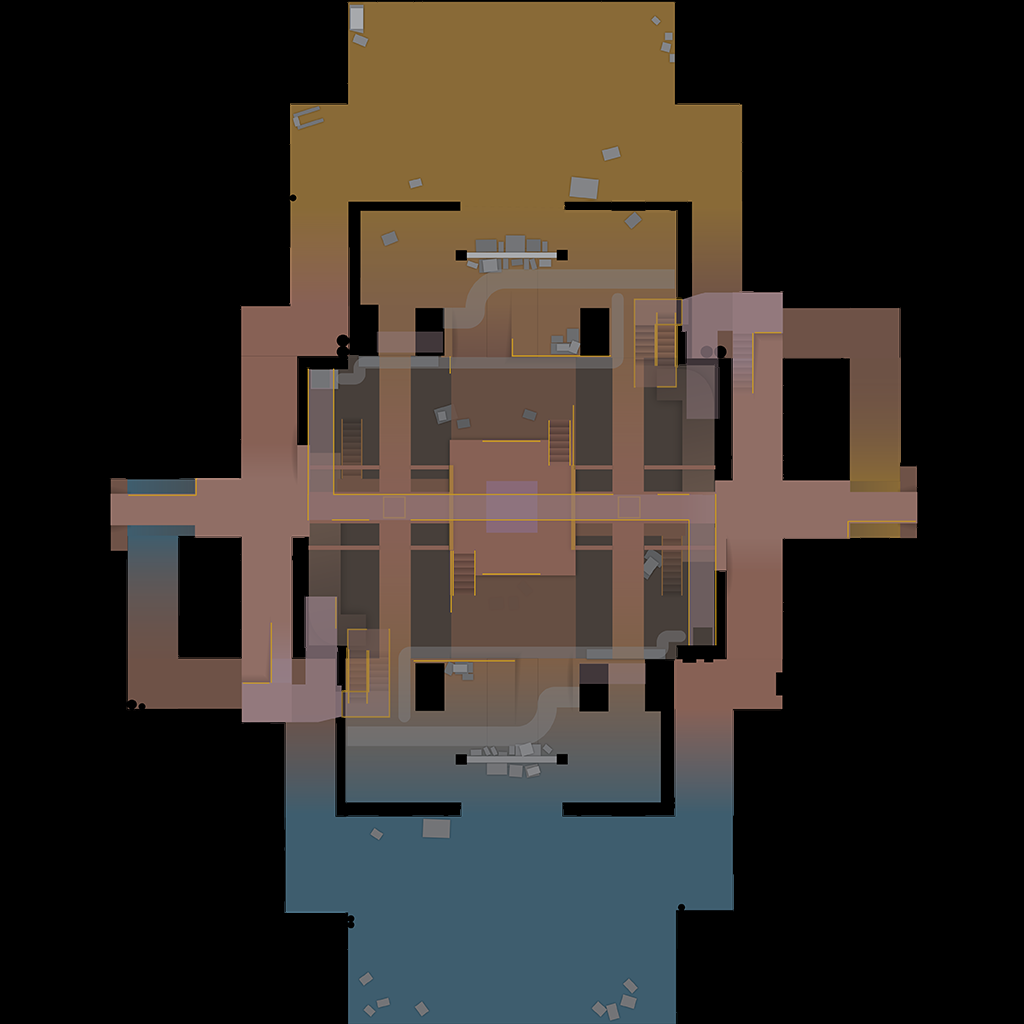
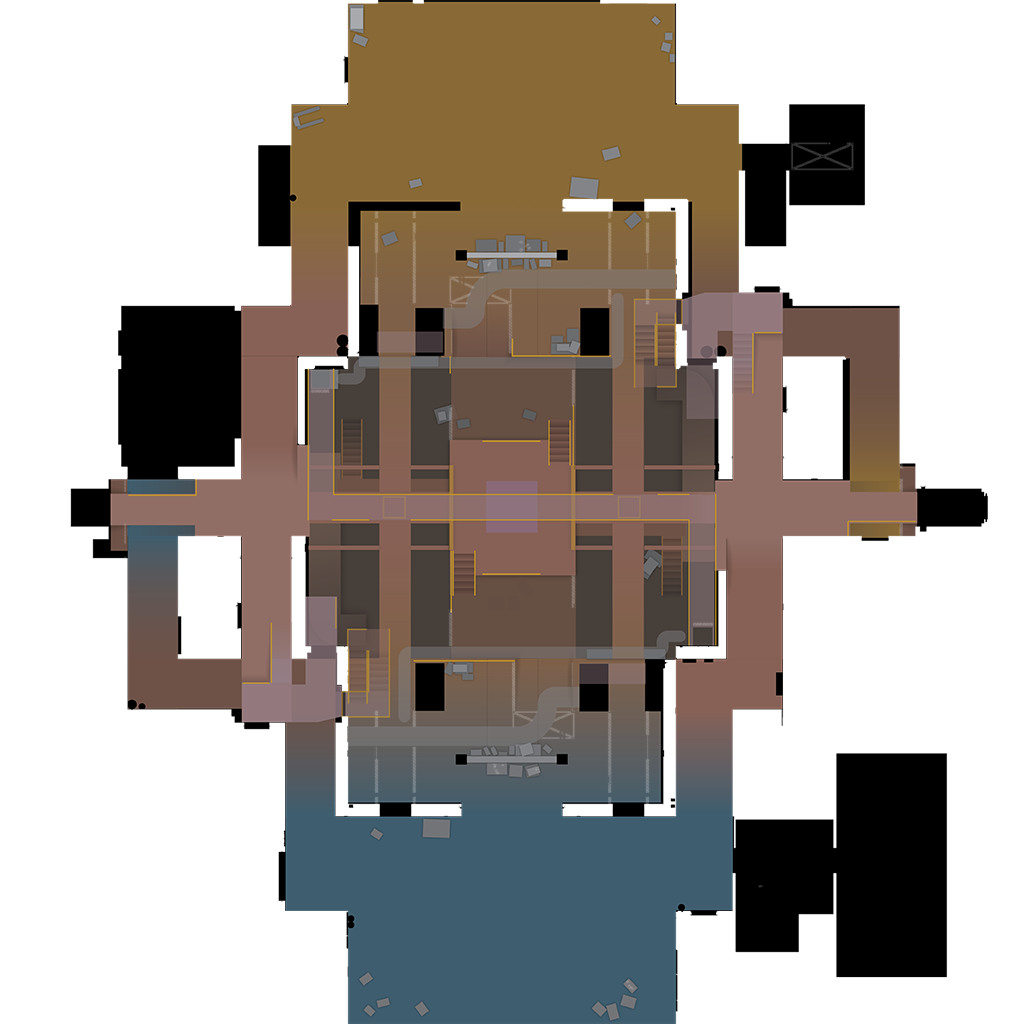
refactor(radar-web): Added community support && Map-Resizer

diff --git a/radar/web/src/map-info/index.ts b/radar/web/src/map-info/index.ts
@@ -2,9 +2,10 @@
  * Finding Maps Source
  * Find Counter-Strike Global Offensive\game\csgo\pak01_dir.vpk
  * Open with Source Viewer ( https://github.com/ValveResourceFormat/ValveResourceFormat )
- * Locate resource/overviews
+ * Locate resource/overviews / Locate panorama/images/overheadmaps
  * */
 import { KeyValuesNode, parseKeyValues } from "./key-values";
+
 
 export type VerticalSection = {
     name: "default" | "lower",
@@ -44,6 +45,9 @@ export type LoadedMap = {
     pos_x: number,
     pos_y: number,
     scale: number,
+
+    /* Pixel width of the official radar image; the world extent is scale * imageWidth. */
+    imageWidth: number,
 
     verticalSections: VerticalSection[],
     mapStyles: MapStyle[],
@@ -133,6 +137,27 @@ for (const request of kVolumeBoundsContext.keys()) {
     kVolumeBounds[segments[segments.length - 2]] = unwrapDefault(kVolumeBoundsContext(request));
 }
 
+/*
+ * The world extent of a radar image is scale * its pixel width. Official maps
+ * use a 1024px overview while RadGen-generated maps often use 2048px, and
+ * scale is per pixel of that image. The width is read from the image itself so
+ * swapping or adding a radar image needs no generated metadata.
+ */
+const kDefaultImageWidth = 1024;
+const probeImageWidth = (url: string | undefined): Promise<number> => {
+    return new Promise((resolve) => {
+        if (!url || typeof Image === "undefined") {
+            resolve(kDefaultImageWidth);
+            return;
+        }
+
+        const image = new Image();
+        image.onload = () => resolve(image.naturalWidth || kDefaultImageWidth);
+        image.onerror = () => resolve(kDefaultImageWidth);
+        image.src = url;
+    });
+};
+
 const kOverviews: Record<string, KeyValuesNode> = {};
 for (const request of kOverviewContext.keys()) {
     const fileName = request.split("/").pop() as string;
@@ -157,7 +182,7 @@ const rootValues = (overview: KeyValuesNode): KeyValuesNode => {    for (const k
 
 const buildVerticalSections = (overview: KeyValuesNode): VerticalSection[] => {
     const sectionsNode = overview["verticalsections"] as KeyValuesNode | undefined;
-    const sections: VerticalSection[] = [];
+    const raw: { altitudeMax: number, altitudeMin: number }[] = [];
 
     if (sectionsNode) {
         for (const name of Object.keys(sectionsNode)) {
@@ -168,19 +193,28 @@ const buildVerticalSections = (overview: KeyValuesNode): VerticalSection[] => {
                 continue;
             }
 
-            sections.push({
-                name: name === "lower" ? "lower" : "default",
-                altitudeMax,
-                altitudeMin,
-            });
+            raw.push({ altitudeMax, altitudeMin });
         }
     }
 
-    if (sections.length === 0) {
-        sections.push({ name: "default", altitudeMax: 10000, altitudeMin: -10000 });
+    if (raw.length === 0) {
+        return [{ name: "default", altitudeMax: 10000, altitudeMin: -10000 }];
     }
 
-    return sections;
+    /*
+     * The UI only has two level slots (default and lower). Maps name their
+     * sections differently (nuke "lower", boulder "higher1"), so assign by
+     * order rather than by name.
+     */
+    if (raw.length > 2) {
+        console.warn(`Overview has ${raw.length} vertical sections; only the first two are used.`);
+    }
+
+    return raw.slice(0, 2).map((section, index) => ({
+        name: index === 0 ? "default" : "lower",
+        altitudeMax: section.altitudeMax,
+        altitudeMin: section.altitudeMin,
+    }));
 };
 
 const buildVolumes = (overview: KeyValuesNode, mapImages: ImageGroups | undefined, volumeBounds: Record<string, any>): MapVolume[] => {
@@ -280,18 +314,23 @@ const buildMapRegistry = (): Record<string, () => Promise<LoadedMap>> => {
             console.warn(`Map "${mapName}" has a map_default_lower.png but no "lower" vertical section.`);
         }
 
-        registry[mapName] = async (): Promise<LoadedMap> => ({
-            mapName,
-            displayName,
+        registry[mapName] = async (): Promise<LoadedMap> => {
+            const imageWidth = await probeImageWidth(mapImages.styles["default"]?.default);
 
-            pos_x: numberOr(values["pos_x"], 0),
-            pos_y: numberOr(values["pos_y"], 0),
-            scale: numberOr(values["scale"], 1),
+            return {
+                mapName,
+                displayName,
 
-            verticalSections,
-            mapStyles,
-            volumes,
-        });
+                pos_x: numberOr(values["pos_x"], 0),
+                pos_y: numberOr(values["pos_y"], 0),
+                scale: numberOr(values["scale"], 1),
+                imageWidth,
+
+                verticalSections,
+                mapStyles,
+                volumes,
+            };
+        };
     }
 
     return registry;

diff --git a/radar/web/src/map-info/geometry.ts b/radar/web/src/map-info/geometry.ts
@@ -56,7 +56,12 @@ export const getMapLevel = (map: LoadedMap, position: [F32, F32, F32]): string =
 
 export const getMapPosition = (map: LoadedMap, position: [number, number, number]): [number, number] => {
     const volume = map.volumes.length > 0 ? findVolume(map, position) : null;
-    const mapSize = (volume?.scale ?? map.scale) * 1024;
+    /*
+     * The world extent of the image is scale * its pixel width. Official maps
+     * use a 1024px overview, RadGen-generated maps often use 2048px, and their
+     * scale is per-pixel for that image.
+     */
+    const mapSize = (volume?.scale ?? map.scale) * (volume ? 1024 : map.imageWidth);
 
     return [
         (position[0] - (volume?.pos_x ?? map.pos_x)) * 100 / mapSize,

diff --git a/radar/web/src/index.ts b/radar/web/src/index.ts
@@ -8,7 +8,7 @@ container.id = "app-container";
 const appRoot = ReactDOM.createRoot(container);
 document.body.appendChild(container);
 
-import(/* webpackChunkName: "app" */ "./ui/app").then(async (app) => {
+import("./ui/app").then(async (app) => {
     await initializeAppStore();
     appRoot.render(React.createElement(app.App));
 });
